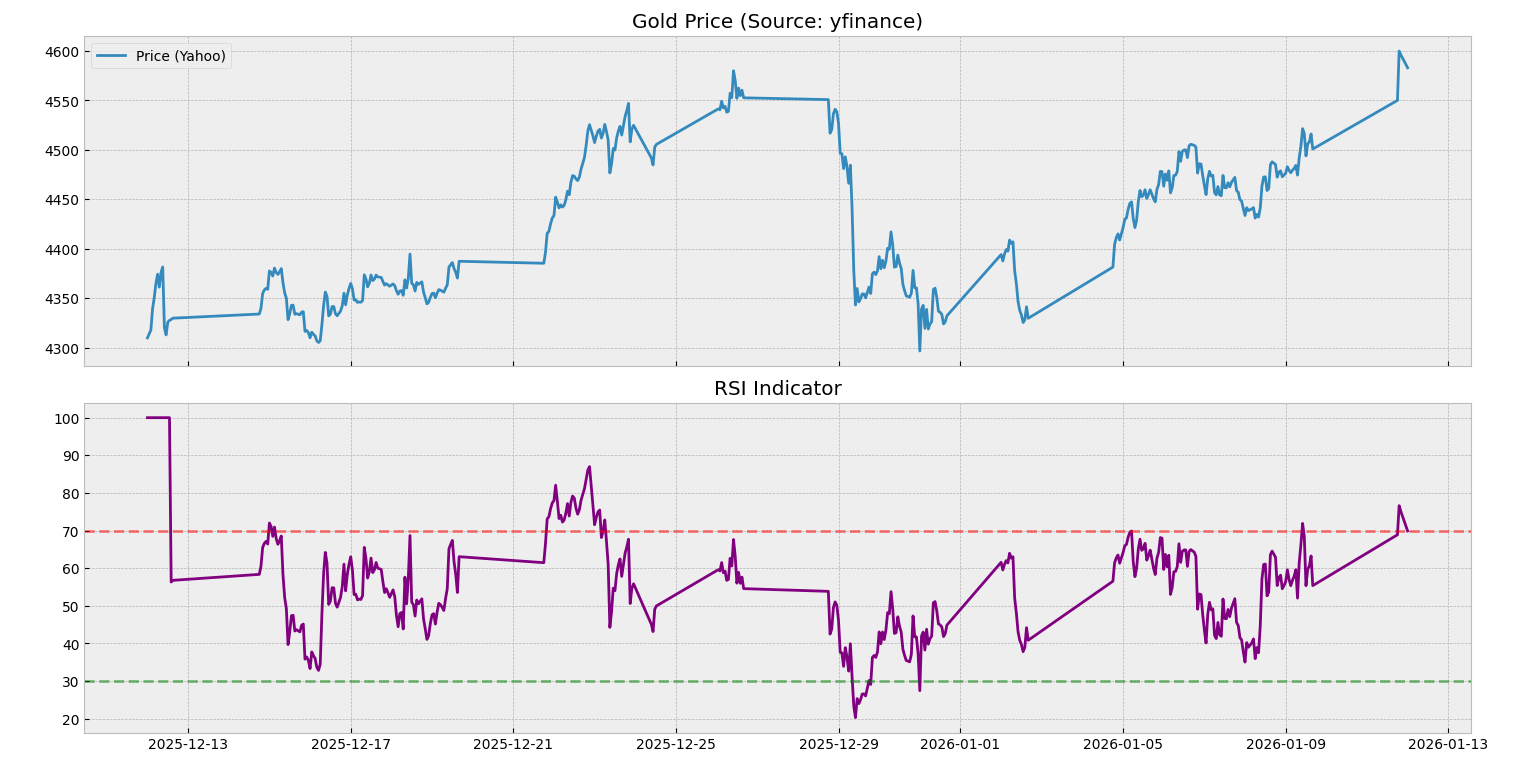
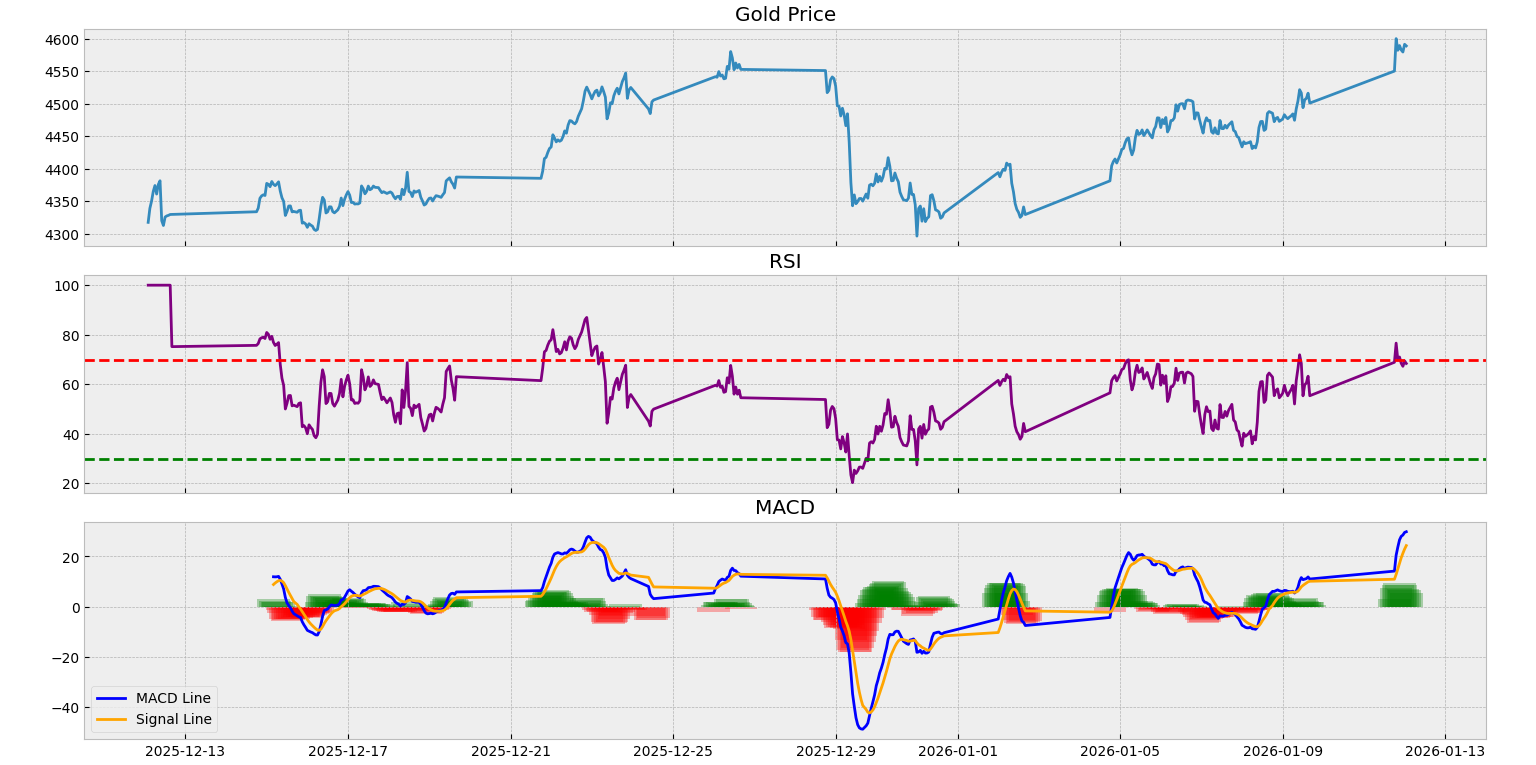
Added MACD indicator - bot now uses RSI + MACD confluence strategy

diff --git a/indicators/macd.py b/indicators/macd.py
@@ -1,0 +1,204 @@
+import pandas as pd
+import numpy as np
+import logging
+from typing import Union, Dict, Any
+
+# Configure logging
+logging.basicConfig(level=logging.INFO, format='%(asctime)s - %(name)s - %(levelname)s - %(message)s')
+logger = logging.getLogger(__name__)
+
+class MACDCalculator:
+    """
+    A robust MACD (Moving Average Convergence Divergence) calculator.
+    
+    Features:
+    - Configurable periods (Fast=12, Slow=26, Signal=9)
+    - Crossover detection (Bullish/Bearish)
+    - Signal strength analysis
+    - Pandas DataFrame integration
+    """
+
+    def __init__(self, fast_period: int = 12, slow_period: int = 26, signal_period: int = 9):
+        """
+        Initialize the MACD Calculator.
+
+        Args:
+            fast_period (int): Period for the fast EMA (default 12).
+            slow_period (int): Period for the slow EMA (default 26).
+            signal_period (int): Period for the signal line EMA (default 9).
+        """
+        self.fast_period = fast_period
+        self.slow_period = slow_period
+        self.signal_period = signal_period
+
+        # Validation
+        if not (0 < fast_period < slow_period):
+            raise ValueError("Fast period must be positive and less than slow period.")
+        if signal_period <= 0:
+            raise ValueError("Signal period must be positive.")
+
+    def calculate_macd(self, data: Union[pd.DataFrame, pd.Series]) -> pd.DataFrame:
+        """
+        Calculate MACD, Signal line, and Histogram.
+
+        Args:
+            data (pd.DataFrame or pd.Series): Price data. If DataFrame, expects 'close' column.
+
+        Returns:
+            pd.DataFrame: Contains columns ['macd', 'signal', 'histogram']
+        """
+        # 1. Input Validation & Preparation
+        if isinstance(data, pd.DataFrame):
+            col_map = {c.lower(): c for c in data.columns}
+            if 'close' not in col_map:
+                logger.error("DataFrame missing 'close' column")
+                raise ValueError("Input DataFrame must contain a 'close' column")
+            prices = data[col_map['close']]
+        elif isinstance(data, pd.Series):
+            prices = data
+        else:
+            raise TypeError("Input must be a pandas DataFrame or Series")
+
+        # Ensure sufficient data
+        min_required = self.slow_period + self.signal_period
+        if len(prices) < min_required:
+            logger.warning(f"Insufficient data ({len(prices)}) for MACD calculation. Need at least {min_required}.")
+            return pd.DataFrame(columns=['macd', 'signal', 'histogram'])
+
+        # 2. Calculate EMAs (Exponential Moving Averages)
+        # adjust=False matches the standard technical analysis definition (e.g. TradingView)
+        ema_fast = prices.ewm(span=self.fast_period, adjust=False).mean()
+        ema_slow = prices.ewm(span=self.slow_period, adjust=False).mean()
+
+        # 3. Calculate MACD Line
+        macd_line = ema_fast - ema_slow
+
+        # 4. Calculate Signal Line
+        signal_line = macd_line.ewm(span=self.signal_period, adjust=False).mean()
+
+        # 5. Calculate Histogram
+        histogram = macd_line - signal_line
+
+        # 6. Assemble DataFrame
+        result_df = pd.DataFrame({
+            'macd': macd_line,
+            'signal': signal_line,
+            'histogram': histogram
+        })
+        
+        # Clean up warm-up period (optional, but cleaner)
+        # The first few values are often unreliable until the EMAs stabilize
+        result_df.iloc[:self.slow_period-1] = np.nan
+
+        return result_df
+
+    def detect_crossover(self, macd_df: pd.DataFrame, index: int = -1) -> str:
+        """
+        Check for crossovers at a specific index.
+        
+        Returns:
+            str: 'BULLISH', 'BEARISH', or 'NONE'
+        """
+        if len(macd_df) < 2:
+            return "NONE"
+            
+        try:
+            # Current values
+            curr_hist = macd_df['histogram'].iloc[index]
+            # Previous values
+            prev_hist = macd_df['histogram'].iloc[index - 1]
+            
+            # Bullish: Histogram crosses from negative to positive
+            if prev_hist <= 0 and curr_hist > 0:
+                return "BULLISH"
+            
+            # Bearish: Histogram crosses from positive to negative
+            if prev_hist >= 0 and curr_hist < 0:
+                return "BEARISH"
+                
+            return "NONE"
+            
+        except IndexError:
+            return "NONE"
+
+    def analyze_latest(self, macd_df: pd.DataFrame) -> Dict[str, Any]:
+        """
+        Analyze the latest MACD values to generate a comprehensive signal.
+
+        Returns:
+            Dict: {macd, signal_line, histogram, signal, strength, message}
+        """
+        if macd_df.empty or pd.isna(macd_df['macd'].iloc[-1]):
+            return {
+                "signal": "NEUTRAL",
+                "message": "Insufficient data"
+            }
+
+        # Extract latest values
+        curr_macd = macd_df['macd'].iloc[-1]
+        curr_sig = macd_df['signal'].iloc[-1]
+        curr_hist = macd_df['histogram'].iloc[-1]
+        
+        # Check crossover
+        crossover = self.detect_crossover(macd_df)
+        
+        # Determine Signal & Strength
+        signal_type = "NEUTRAL"
+        strength = "WEAK"
+        message = "MACD is trending neutrally."
+
+        if crossover == "BULLISH":
+            signal_type = "BUY"
+            strength = "STRONG"
+            message = "Bullish Crossover: MACD crossed above Signal line."
+        elif crossover == "BEARISH":
+            signal_type = "SELL"
+            strength = "STRONG"
+            message = "Bearish Crossover: MACD crossed below Signal line."
+        else:
+            # No crossover, check trend
+            if curr_hist > 0:
+                signal_type = "BUY" if curr_macd > 0 else "NEUTRAL" # Only strong buy if above zero line
+                strength = "MODERATE" if curr_hist > macd_df['histogram'].iloc[-2] else "WEAK"
+                message = "Bullish trend (No crossover)."
+            elif curr_hist < 0:
+                signal_type = "SELL" if curr_macd < 0 else "NEUTRAL"
+                strength = "MODERATE" if curr_hist < macd_df['histogram'].iloc[-2] else "WEAK"
+                message = "Bearish trend (No crossover)."
+
+        return {
+            "macd": round(curr_macd, 4),
+            "signal_line": round(curr_sig, 4),
+            "histogram": round(curr_hist, 4),
+            "signal": signal_type,
+            "strength": strength,
+            "message": message
+        }
+
+# --- Standalone Usage Example ---
+if __name__ == "__main__":
+    print("--- Running MACD Calculator Test ---")
+    
+    # Generate dummy price data (sine wave to force crossovers)
+    x = np.linspace(0, 10, 100)
+    prices = 100 + 10 * np.sin(x)
+    df = pd.DataFrame({'close': prices})
+    
+    # Initialize
+    macd_calc = MACDCalculator()
+    
+    # Calculate
+    macd_df = macd_calc.calculate_macd(df)
+    
+    # Analyze
+    print("\nCalculated MACD DataFrame (Tail):")
+    print(macd_df.tail())
+    
+    analysis = macd_calc.analyze_latest(macd_df)
+    
+    print("\n--- Latest Analysis ---")
+    print(f"MACD Line:   {analysis['macd']}")
+    print(f"Signal Line: {analysis['signal_line']}")
+    print(f"Histogram:   {analysis['histogram']}")
+    print(f"Signal:      {analysis['signal']} ({analysis['strength']})")
+    print(f"Message:     {analysis['message']}")

diff --git a/main.py b/main.py
@@ -1,68 +1,83 @@
 import matplotlib.pyplot as plt
 from data.fetcher import GoldDataFetcher
 from indicators.rsi import RSICalculator
+from indicators.macd import MACDCalculator
 
 def main():
-    print("--- Hybrid Gold Bot (MetalPriceAPI + yfinance) ---")
+    print("--- Advanced Gold Bot (RSI + MACD) ---")
 
     # 1. Initialize
     fetcher = GoldDataFetcher()
     rsi_tool = RSICalculator(period=14)
+    macd_tool = MACDCalculator(fast_period=12, slow_period=26, signal_period=9)
 
-    # 2. Validate
-    if not fetcher.validate_connection():
-        print("Error: Could not connect to data sources.")
-        return
-
-    # 3. Fetch Historical Data (for RSI)
-    # Yahoo provides the history we need for indicators
-    print("Fetching historical data from yfinance...")
+    # 2. Fetch Data
+    print("Fetching historical data...")
     df = fetcher.get_historical_data(period='1mo', interval='1h')
-
+    
     if df.empty:
-        print("No historical data found.")
+        print("Error: No data found.")
         return
 
-    # 4. Calculate RSI
+    # 3. Calculate Indicators
+    # RSI
     df['rsi'] = rsi_tool.calculate_rsi(df)
     
-    # 5. Get Real-Time Spot Price (for accuracy)
-    # MetalPriceAPI is better for the *current* price than Yahoo
-    print("Checking live spot price from MetalPriceAPI...")
-    live_price = fetcher.get_current_price()
+    # MACD (Returns a new DataFrame, so we concat or just inspect it)
+    macd_results = macd_tool.calculate_macd(df)
+    df = df.join(macd_results) # Joins 'macd', 'signal', 'histogram' to main df
+
+    # 4. Analyze Latest Candle
+    latest_rsi = rsi_tool.analyze_latest(df)
+    latest_macd = macd_tool.analyze_latest(macd_results)
+
+    # 5. Combined Strategy Logic (Confluence)
+    final_action = "WAIT"
     
-    # 6. Analysis
-    latest_analysis = rsi_tool.analyze_latest(df)
-    
-    print("\n" + "="*30)
-    print(" ANALYSIS REPORT")
-    print("="*30)
-    print(f"Time (History): {df.index[-1]}")
-    print(f"Yahoo Close:    {df['close'].iloc[-1]:.2f} (Used for RSI)")
-    
-    if live_price:
-        print(f"Live Spot Price: {live_price:.2f} (MetalPriceAPI)")
+    # Example Strategy: BUY if RSI < 30 AND MACD is Bullish
+    if latest_rsi['signal'] == 'BUY' and latest_macd['signal'] == 'BUY':
+        final_action = "STRONG BUY 🚀"
+    elif latest_rsi['signal'] == 'SELL' and latest_macd['signal'] == 'SELL':
+        final_action = "STRONG SELL 🔻"
     else:
-        print("Live Spot Price: Unavailable")
-        
-    print(f"RSI (14):       {latest_analysis['rsi']}")
-    print(f"Signal:         {latest_analysis['signal']}")
-    print("="*30)
+        final_action = "NEUTRAL / CONFLICTING SIGNALS"
+
+    # 6. Report
+    print("\n" + "="*40)
+    print(f" ANALYSIS REPORT ({df.index[-1]})")
+    print("="*40)
+    print(f"Price:      {df['close'].iloc[-1]:.2f}")
+    print("-" * 20)
+    print(f"RSI (14):   {latest_rsi['rsi']:.2f} -> {latest_rsi['signal']}")
+    print(f"MACD:       {latest_macd['message']}")
+    print("-" * 20)
+    print(f"FINAL DECISION: {final_action}")
+    print("="*40)
 
     # 7. Plotting
     print("\nDisplaying chart...")
     plt.style.use('bmh')
-    fig, (ax1, ax2) = plt.subplots(2, 1, figsize=(10, 8), sharex=True)
+    fig, (ax1, ax2, ax3) = plt.subplots(3, 1, figsize=(10, 10), sharex=True)
 
-    ax1.plot(df.index, df['close'], label='Price (Yahoo)')
-    ax1.set_title('Gold Price (Source: yfinance)')
-    ax1.legend()
-
-    ax2.plot(df.index, df['rsi'], label='RSI', color='purple')
-    ax2.axhline(70, color='red', linestyle='--', alpha=0.5)
-    ax2.axhline(30, color='green', linestyle='--', alpha=0.5)
-    ax2.set_title('RSI Indicator')
+    # Price
+    ax1.plot(df.index, df['close'], label='Price')
+    ax1.set_title('Gold Price')
     
+    # RSI
+    ax2.plot(df.index, df['rsi'], color='purple', label='RSI')
+    ax2.axhline(70, color='red', linestyle='--')
+    ax2.axhline(30, color='green', linestyle='--')
+    ax2.set_title('RSI')
+
+    # MACD
+    ax3.plot(df.index, df['macd'], label='MACD Line', color='blue')
+    ax3.plot(df.index, df['signal'], label='Signal Line', color='orange')
+    # Bar chart for Histogram
+    colors = ['green' if v >= 0 else 'red' for v in df['histogram']]
+    ax3.bar(df.index, df['histogram'], color=colors, alpha=0.3)
+    ax3.set_title('MACD')
+    ax3.legend()
+
     plt.tight_layout()
     plt.show()
 